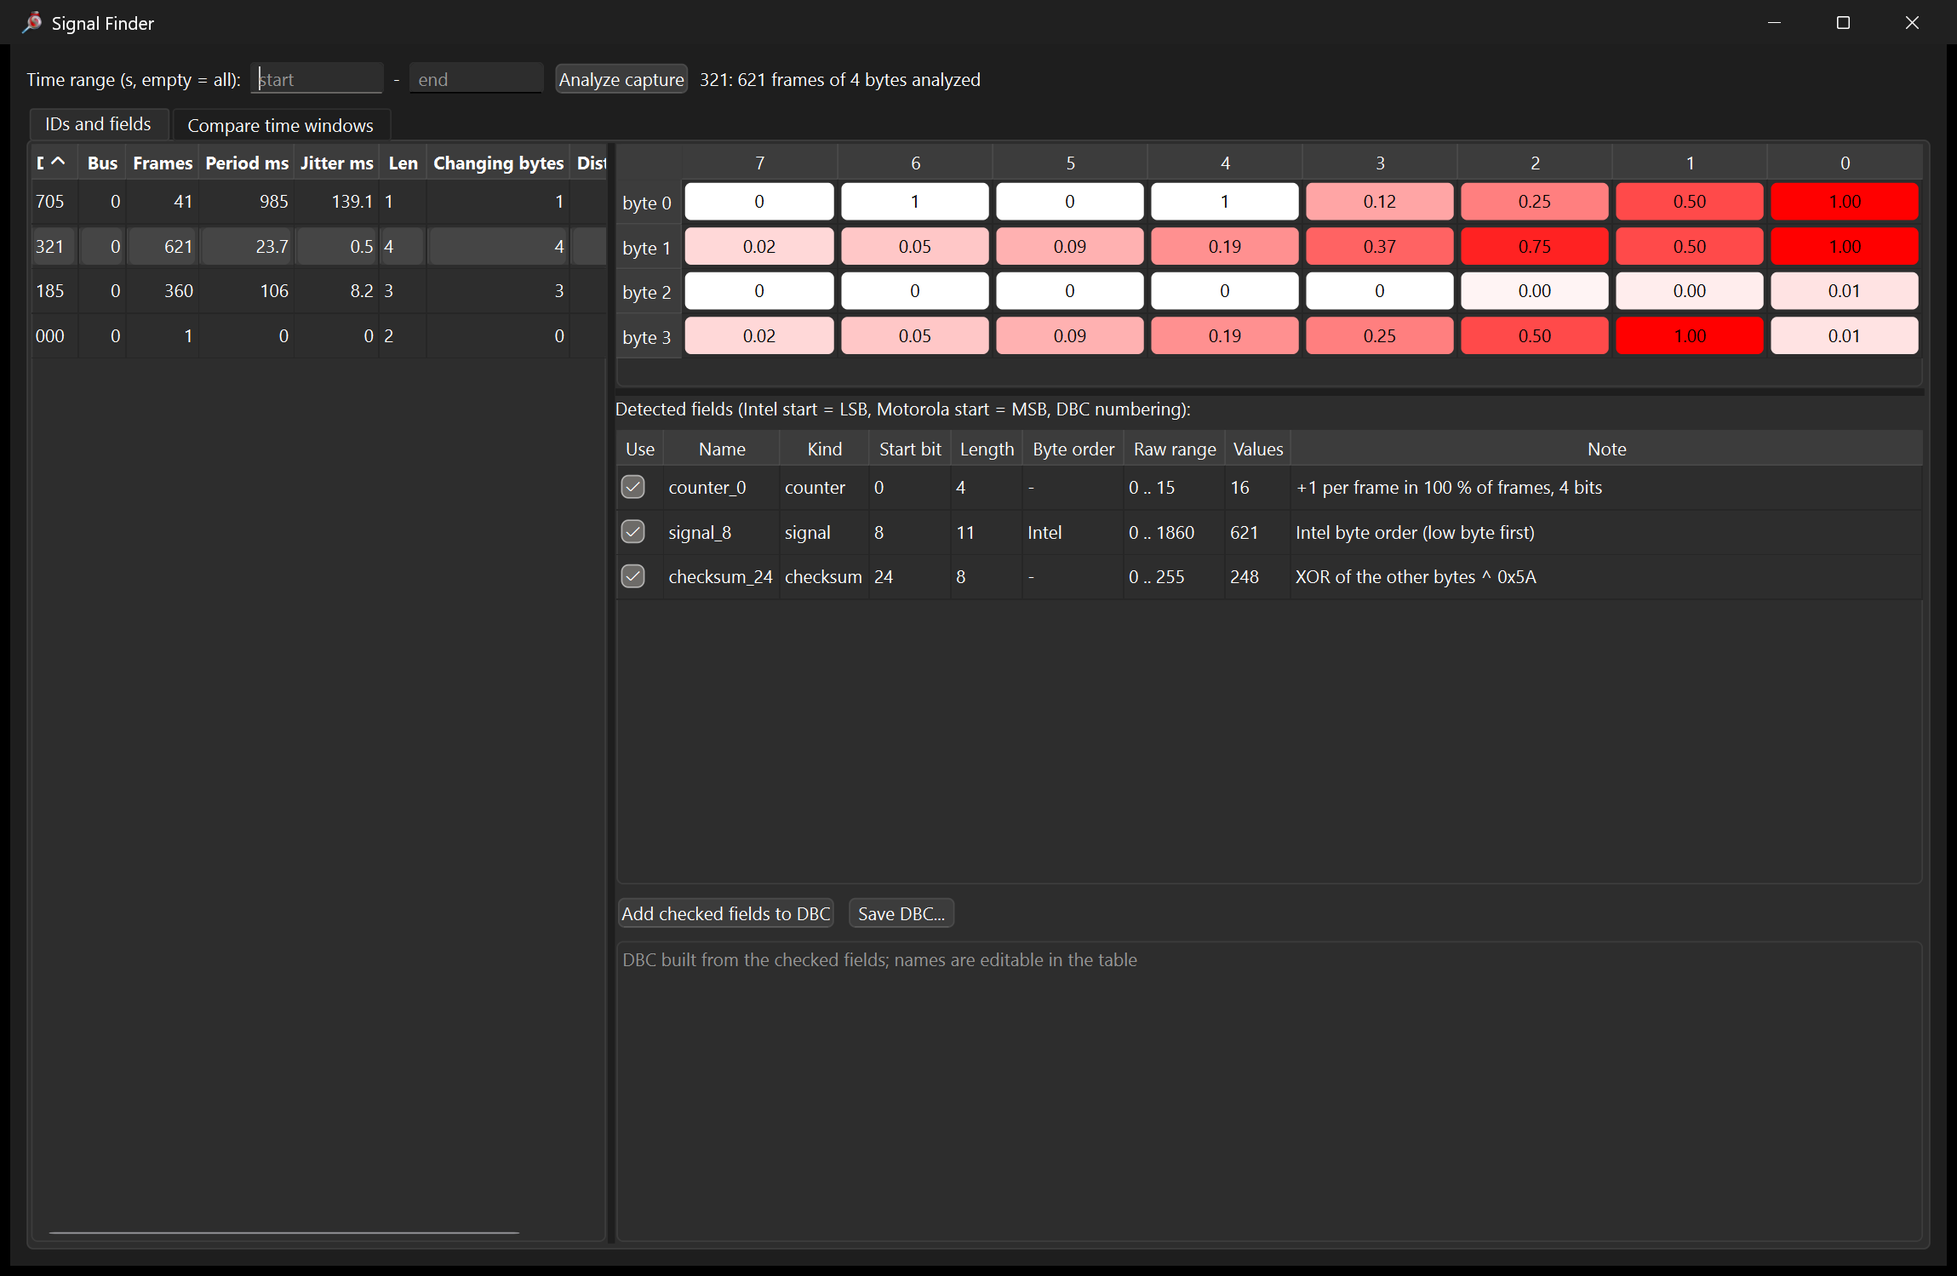
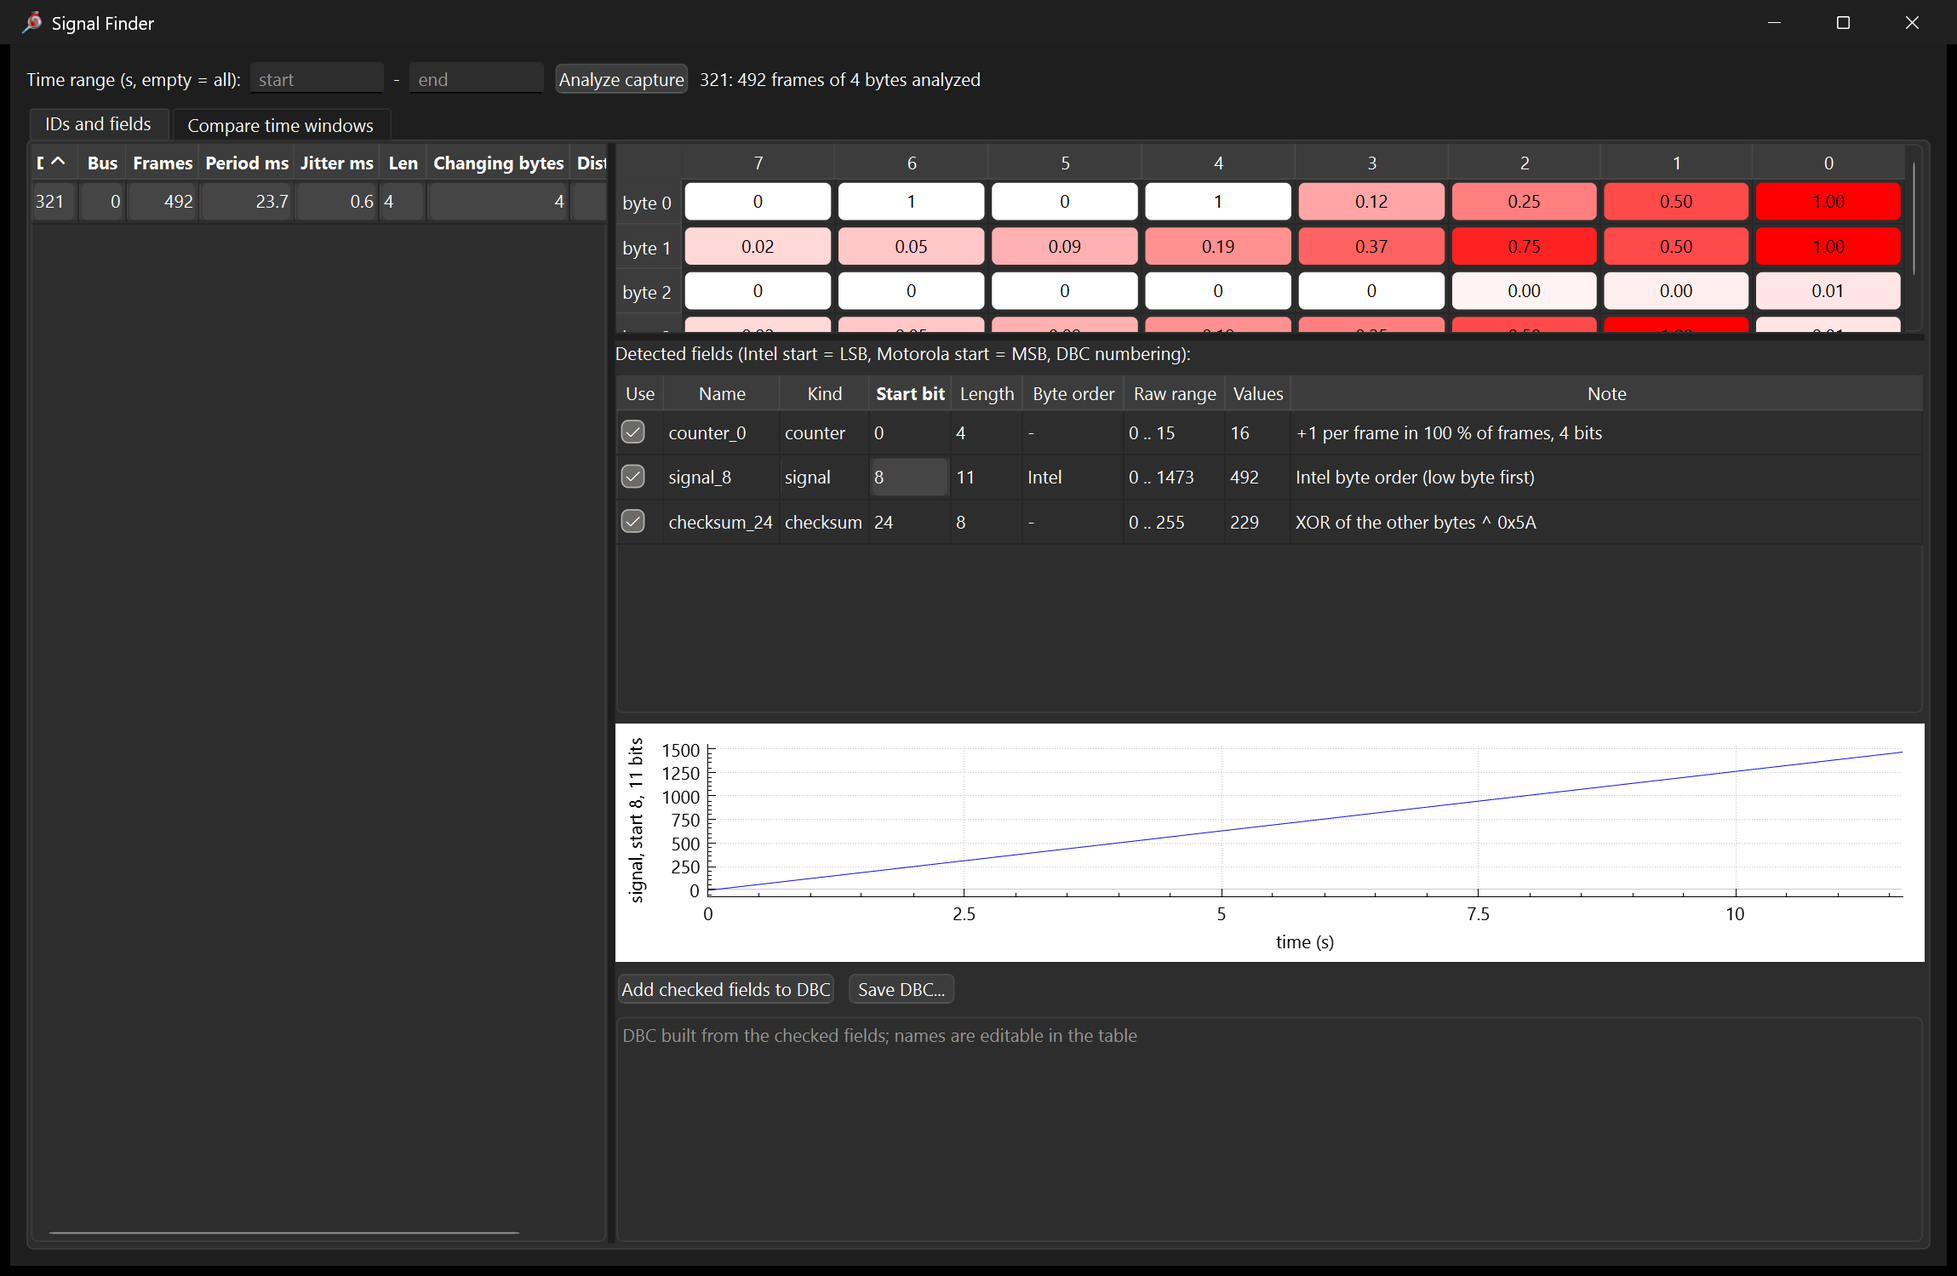
Signal Finder: value plot and DBC load into SavvyCAN; WSL2 note
- Signal Finder plots the selected field over time (QCustomPlot,
  steps for flags), following the table selection
- Save DBC in Signal Finder and AI Assistant offers to load the file into
  SavvyCAN's DBC handler (re/dbcload.h), replacing an earlier load of the
  same path; verified on Windows: fields found on 0x321 saved, loaded,
  and Interpret Frames decoded counter 11, signal 417 (0x01A1, low byte
  first) and checksum 161 for frame 5B A1 01 A1
- README: WSL2 / usbipd section with the note that an adapter handed
  back to Windows may need a replug (PLAN item closed)
- upstream commit amended to 2c1a049, patch regenerated, identical to a
  fresh patched checkout

Changed region(s): [[0.3088, 0.5524, 0.9883, 0.8286], [0.3088, 0.1227, 0.9883, 0.4603], [0.3706, 0.1841, 0.4015, 0.2148]]

diff --git a/gui/savvycan/re/signalfinderwindow.cpp b/gui/savvycan/re/signalfinderwindow.cpp
@@ -20,6 +20,8 @@
 #include <QVBoxLayout>
 #include <cmath>
 
+#include "dbcload.h"
+#include "qcustomplot.h"
 #include "recapture.h"
 
 namespace {
@@ -95,6 +97,13 @@ SignalFinderWindow::SignalFinderWindow(const QVector<GuiFrame> *frameList, QWidg
     fl->setContentsMargins(0, 0, 0, 0);
     fl->addWidget(new QLabel(tr("Detected fields (Intel start = LSB, Motorola start = MSB, DBC numbering):"), this));
     fl->addWidget(fieldTable, 3);
+    plot = new QCustomPlot(this);
+    plot->setMinimumHeight(160);
+    plot->xAxis->setLabel(tr("time (s)"));
+    plot->yAxis->setLabel(tr("raw value"));
+    plot->setInteractions(QCP::iRangeDrag | QCP::iRangeZoom);
+    plot->addGraph();
+    fl->addWidget(plot, 2);
     fl->addLayout(dbcRow);
     fl->addWidget(dbcView, 2);
 
@@ -149,6 +158,7 @@ SignalFinderWindow::SignalFinderWindow(const QVector<GuiFrame> *frameList, QWidg
 
     connect(refreshBtn, &QPushButton::clicked, this, &SignalFinderWindow::refresh);
     connect(idTable, &QTableWidget::itemSelectionChanged, this, &SignalFinderWindow::idSelected);
+    connect(fieldTable, &QTableWidget::itemSelectionChanged, this, &SignalFinderWindow::fieldSelected);
     connect(addBtn, &QPushButton::clicked, this, &SignalFinderWindow::addToDbc);
     connect(saveBtn, &QPushButton::clicked, this, &SignalFinderWindow::saveDbc);
     connect(cmpBtn, &QPushButton::clicked, this, &SignalFinderWindow::compare);
@@ -261,6 +271,33 @@ void SignalFinderWindow::idSelected()
     summary->setText(tr("%1: %2 frames of %3 bytes analyzed").arg(keyStr(current.key)).arg(current.frames).arg(current.length));
 }
 
+void SignalFinderWindow::fieldSelected()
+{
+    QList<QTableWidgetItem *> sel = fieldTable->selectedItems();
+    int r = sel.isEmpty() ? fieldTable->currentRow() : sel.first()->row();
+    if (r < 0 || r >= int(current.fields.size()))
+        return;
+    const canre::Field &f = current.fields[size_t(r)];
+    double t0, t1;
+    timeRange(t0, t1);
+    QVector<double> x, y;
+    for (size_t i : cap.indices(current.key, t0, t1))
+    {
+        bool ok;
+        uint64_t v = canre::extractBits(cap.data(i), cap.frame(i).len, f.startBit, f.length, f.bigEndian, &ok);
+        if (!ok) continue;
+        x.append(cap.seconds(i));
+        y.append(double(v));
+    }
+    plot->graph(0)->setData(x, y);
+    plot->graph(0)->setLineStyle(f.length == 1 ? QCPGraph::lsStepLeft : QCPGraph::lsLine);
+    plot->rescaleAxes();
+    plot->yAxis->scaleRange(1.1, plot->yAxis->range().center());
+    plot->yAxis->setLabel(tr("%1, start %2, %3 bits%4").arg(canre::kindName(f.kind)).arg(f.startBit).arg(f.length)
+                              .arg(f.bigEndian ? tr(", Motorola") : QString()));
+    plot->replot();
+}
+
 void SignalFinderWindow::addToDbc()
 {
     if (current.frames == 0) return;
@@ -302,18 +339,8 @@ void SignalFinderWindow::saveDbc()
         QMessageBox::information(this, tr("Signal Finder"), tr("Add fields to the DBC first."));
         return;
     }
-    QSettings settings;
-    QString path = QFileDialog::getSaveFileName(this, tr("Save DBC"), settings.value("SignalFinder/dbcPath").toString(), tr("DBC (*.dbc)"));
-    if (path.isEmpty()) return;
-    QFile f(path);
-    if (!f.open(QIODevice::WriteOnly | QIODevice::Truncate))
-    {
-        QMessageBox::warning(this, tr("Signal Finder"), tr("Cannot write %1").arg(path));
-        return;
-    }
-    f.write(QByteArray::fromStdString(canre::toDbc(dbc)));
-    settings.setValue("SignalFinder/dbcPath", path);
-    summary->setText(tr("saved %1; load it with File > DBC File Manager").arg(path));
+    QString status = saveAndLoadDbc(this, QByteArray::fromStdString(canre::toDbc(dbc)));
+    if (!status.isEmpty()) summary->setText(status);
 }
 
 void SignalFinderWindow::compare()

diff --git a/gui/savvycan/re/dbcload.h b/gui/savvycan/re/dbcload.h
@@ -1,0 +1,55 @@
+// SPDX-License-Identifier: MIT
+// Copyright (c) 2026 CANLAB s.r.o.
+#ifndef DBCLOAD_H
+#define DBCLOAD_H
+
+/* Saves DBC text and, if the user wants, loads it into SavvyCAN's DBC
+ * handler so the frame list decodes the signals (Interpret Frames). A file
+ * loaded earlier from the same path is replaced, not loaded twice. */
+
+#include <QFile>
+#include <QFileDialog>
+#include <QFileInfo>
+#include <QMessageBox>
+#include <QSettings>
+#include <QWidget>
+
+#include "dbc/dbchandler.h"
+
+/* Returns a status line for the window, empty if the user cancelled. */
+inline QString saveAndLoadDbc(QWidget *parent, const QByteArray &dbcText)
+{
+    QSettings settings;
+    QString path = QFileDialog::getSaveFileName(parent, QObject::tr("Save DBC"), settings.value("SignalFinder/dbcPath").toString(),
+                                                QObject::tr("DBC (*.dbc)"));
+    if (path.isEmpty())
+        return QString();
+    QFile f(path);
+    if (!f.open(QIODevice::WriteOnly | QIODevice::Truncate))
+    {
+        QMessageBox::warning(parent, QObject::tr("Save DBC"), QObject::tr("Cannot write %1").arg(path));
+        return QObject::tr("could not write %1").arg(path);
+    }
+    f.write(dbcText);
+    f.close();
+    settings.setValue("SignalFinder/dbcPath", path);
+
+    if (QMessageBox::question(parent, QObject::tr("Save DBC"),
+                              QObject::tr("Load it into SavvyCAN now, so the frame list decodes the signals (Interpret Frames)?"),
+                              QMessageBox::Yes | QMessageBox::No, QMessageBox::Yes) != QMessageBox::Yes)
+        return QObject::tr("saved %1").arg(path);
+
+    DBCHandler *h = DBCHandler::getReference();
+    QString target = QFileInfo(path).absoluteFilePath();
+    for (int i = h->getFileCount() - 1; i >= 0; i--)
+    {
+        DBCFile *old = h->getFileByIdx(i);
+        if (old && QFileInfo(old->getFullFilename()).absoluteFilePath() == target)
+            h->removeDBCFile(i);
+    }
+    if (!h->loadDBCFile(path))
+        return QObject::tr("saved %1, but SavvyCAN could not load it").arg(path);
+    return QObject::tr("saved and loaded %1; tick Interpret Frames in the main window to see the signals").arg(path);
+}
+
+#endif // DBCLOAD_H

diff --git a/gui/savvycan/apply.py b/gui/savvycan/apply.py
@@ -40,7 +40,7 @@ for f in ("busstatswindow.h", "busstatswindow.cpp", "canopenwindow.h", "canopenw
           "savvycompat.h", "canidcalc.h", "canopen_eds.h", "cancalcwindow.h", "cancalcwindow.cpp",
           "responsemeterwindow.h", "responsemeterwindow.cpp", "datapanelwindow.h", "datapanelwindow.cpp",
           "canre.h", "aitools.h", "recapture.h", "signalfinderwindow.h", "signalfinderwindow.cpp",
-          "aiassistantwindow.h", "aiassistantwindow.cpp"):
+          "aiassistantwindow.h", "aiassistantwindow.cpp", "dbcload.h"):
     shutil.copy(os.path.join(R, "gui", "savvycan", "re", f), os.path.join(S, "re", f))
 for f in ("pp2canlog.h", "pp2canlog.cpp", "pp2canlogfmt.h", "logprinter.h", "logprinter.cpp", "logprintlayout.h"):
     shutil.copy(os.path.join(R, "gui", "savvycan", f), os.path.join(S, f))
@@ -94,6 +94,10 @@ if os.path.exists(os.path.join(S, "CMakeLists.txt")):
           "    re/canre.h re/aitools.h re/recapture.h\n"
           "    re/signalfinderwindow.cpp re/signalfinderwindow.h\n"
           "    re/aiassistantwindow.cpp re/aiassistantwindow.h\n")
+    patch("CMakeLists.txt",
+          "    re/aiassistantwindow.cpp re/aiassistantwindow.h\n",
+          "    re/aiassistantwindow.cpp re/aiassistantwindow.h\n"
+          "    re/dbcload.h\n")
 
 patch("SavvyCAN.pro",
       "    re/temporalgraphwindow.cpp" + BS,
@@ -123,6 +127,9 @@ patch("SavvyCAN.pro",
       "    re/canopen_eds.h" + BS,
       "    re/canopen_eds.h" + BS + "    re/canre.h" + BS + "    re/aitools.h" + BS + "    re/recapture.h" + BS
       + "    re/signalfinderwindow.h" + BS + "    re/aiassistantwindow.h" + BS)
+patch("SavvyCAN.pro",
+      "    re/aiassistantwindow.h" + BS,
+      "    re/aiassistantwindow.h" + BS + "    re/dbcload.h" + BS)
 
 patch("SavvyCAN.pro",
       "    framefileio.cpp" + BS,

diff --git a/gui/savvycan/re/signalfinderwindow.h b/gui/savvycan/re/signalfinderwindow.h
@@ -7,8 +7,10 @@
  * RE Tools > Signal Finder: automatic analysis of the captured frames
  * (re/canre.h). Per ID: timing, a bit flip heatmap, and the fields it
  * found (rolling counters, checksums, constants, flags, signal candidates
- * with byte order); checked fields go into a DBC file. A second tab
- * compares two time windows ("what changed when I pressed the button").
+ * with byte order) with a plot of the selected one over time; checked
+ * fields go into a DBC file, which can be loaded into SavvyCAN right
+ * away. A second tab compares two time windows ("what changed when I
+ * pressed the button").
  */
 
 #include <QVector>
@@ -18,6 +20,7 @@
 #include "canre.h"
 #include "savvycompat.h"
 
+class QCustomPlot;
 class QDoubleSpinBox;
 class QLabel;
 class QLineEdit;
@@ -34,6 +37,7 @@ public:
 private slots:
     void refresh();
     void idSelected();
+    void fieldSelected();
     void addToDbc();
     void saveDbc();
     void compare();
@@ -54,6 +58,7 @@ private:
     QTableWidget   *heatmap;
     QTableWidget   *fieldTable;
     QPlainTextEdit *dbcView;
+    QCustomPlot    *plot;
     QDoubleSpinBox *aStart, *aEnd, *bStart, *bEnd;
     QPlainTextEdit *diffView;
 };

diff --git a/gui/savvycan/re/aiassistantwindow.cpp b/gui/savvycan/re/aiassistantwindow.cpp
@@ -34,6 +34,7 @@
 #include <functional>
 
 #include "connections/canconmanager.h"
+#include "dbcload.h"
 #include "recapture.h"
 
 namespace {
@@ -709,16 +710,6 @@ void AiAssistantWindow::saveDbc()
         QMessageBox::information(this, tr("AI Assistant"), tr("No DBC proposal yet."));
         return;
     }
-    QSettings settings;
-    QString path = QFileDialog::getSaveFileName(this, tr("Save DBC"), settings.value("SignalFinder/dbcPath").toString(), tr("DBC (*.dbc)"));
-    if (path.isEmpty()) return;
-    QFile f(path);
-    if (!f.open(QIODevice::WriteOnly | QIODevice::Truncate))
-    {
-        QMessageBox::warning(this, tr("AI Assistant"), tr("Cannot write %1").arg(path));
-        return;
-    }
-    f.write(QByteArray::fromStdString(canre::toDbc(proposals)));
-    settings.setValue("SignalFinder/dbcPath", path);
-    statusLabel->setText(tr("saved %1; load it with File > DBC File Manager").arg(path));
+    QString status = saveAndLoadDbc(this, QByteArray::fromStdString(canre::toDbc(proposals)));
+    if (!status.isEmpty()) statusLabel->setText(status);
 }

diff --git a/doc/PLAN.md b/doc/PLAN.md
@@ -120,10 +120,10 @@ Decision 2026-10-14: build on SavvyCAN (MIT, Qt). First milestone done the same 
 - [x] Fixed a crash found on Windows: `QSerialPort::open()` emits its error signal synchronously, the error slot deleted the port, and the caller then dereferenced it. The error signal is now connected only after a successful open. Removed an unused timer that triggered a cross-thread parent warning.
 - [x] Windows end-to-end (2026-10-14): SavvyCAN on Windows 11 on COM7, the other adapter on the Linux kernel driver in WSL2. Receive 14/14 on all three buses including an extended id and a 12-byte FD frame with BRS, hardware timestamps 103 ms apart for 100 ms sends; transmit from the quick-send grid 13/13 at 200 ms (`doc/img/savvycan-triple-windows.png`). Note: SavvyCAN's grid parses unprefixed numbers as decimal, so ids and data need `0x`.
 - [x] "NO-CARRIER for a second after attach" is not a driver issue: carrier is on for all three ports immediately (sampled every 100 ms), only `operstate` lags by about 0.9 s on a fresh attach. That is the kernel's link-watch rate limiting, which batches non-urgent link events for every network device. Scripts should not wait on `operstate` right after `ldattach`; sending works immediately.
-- [ ] usbipd round trips leave an adapter unusable on Windows (open times out) until it is physically replugged; a `pnputil /restart-device` does not help. Worth a note for users who switch adapters between WSL2 and Windows.
+- [x] usbipd round trips leave an adapter unusable on Windows (open times out) until it is physically replugged; a `pnputil /restart-device` does not help. Noted in README (WSL2 section) and gui/savvycan/README.md.
 - [x] Error frames in SavvyCAN's frame list: on every bus state change (active, warning at 96, passive at 128, bus off) the connection queues a SocketCAN-layout error frame (controller state in byte 1, TEC/REC in bytes 6/7, `ControllerError` / `BusOffError`). Verified on Windows with a bitrate mismatch on CAN1: passive with REC 128, then active again (`doc/img/savvycan-triple-errorframes.png`).
 - [ ] Marker input and the remaining status fields once the firmware source clarifies them.
-- [ ] Upstream pull request to collin80/SavvyCAN: prepared locally (branch `usb2can-triple`, commits `5076eab` connection, `a85db3c` Bus Statistics window and `7997283` CANopen window, `ec64818` PP2CAN tools, `8daedb1` CANopen PDO decoding, `f67667d` Print Log, `3a41e68` CAN FD zero padding, `a5f04bf` raw timing for non-table CAN3 pairs, `5f3585b` Signal Finder and AI Assistant in the WSL checkout, text in `gui/savvycan/UPSTREAM_PR.md`). License resolved 2026-10-14: the codec, the SavvyCAN connection, tools and tests are MIT; only `driver/triple.c` is GPL-2.0. Opening the PR publishes under the maintainer's GitHub account and is left to them.
+- [ ] Upstream pull request to collin80/SavvyCAN: prepared locally (branch `usb2can-triple`, commits `5076eab` connection, `a85db3c` Bus Statistics window and `7997283` CANopen window, `ec64818` PP2CAN tools, `8daedb1` CANopen PDO decoding, `f67667d` Print Log, `3a41e68` CAN FD zero padding, `a5f04bf` raw timing for non-table CAN3 pairs, `2c1a049` Signal Finder and AI Assistant in the WSL checkout, text in `gui/savvycan/UPSTREAM_PR.md`). License resolved 2026-10-14: the codec, the SavvyCAN connection, tools and tests are MIT; only `driver/triple.c` is GPL-2.0. Opening the PR publishes under the maintainer's GitHub account and is left to them.
 - [x] PP2CAN feature gap review: `doc/pp2can-gap.md` maps every PP2CAN feature to SavvyCAN. Covered: logs, filters, search, continuous logging, periodic sender, playback, gateway (CAN Bridge), graphs, ID / timing analysis, DBC signals, scripting. Missing, ranked: bus statistics window (load %, TEC/REC over time), CANopen basics (NMT, heartbeat, SDO, PDO from EDS), response meter, slider-based data/bit sender, CAN calculator. Blocked on firmware source: HW-timed sync, markers, overflow counter, bus-off encoding.
 - [x] Bus statistics window (RE Tools > Bus Statistics, `gui/savvycan/re/busstatswindow.*`): per bus bitrate, frames/s, load % from frame timing at the nominal and data bitrates, peak, error frames, last state with TEC/REC, load graph over 120 s. Works with any SavvyCAN connection. Verified on Windows: 897 frames/s at 250k read 39.8 % (= 897 x 111 bits), 472 frames/s at 500k 10.5 %, 50 FD frames of 64 bytes with BRS at 125k/6.7M 1.6 %; state and counters follow error frames (`doc/img/savvycan-bus-statistics.png`).
 - [x] Fixed a timestamp bug found in that test (driver and SavvyCAN): frames from different ports can arrive slightly out of timestamp order, and any backward step was taken as a 32-bit counter wrap, adding 4295 s. The extension now lives in the shared codec (`triple_ts_extend`): up to 1 s backwards is reordering, a wrap needs a larger backward jump; unit tested in `tests/codec`.

diff --git a/gui/savvycan/README.md b/gui/savvycan/README.md
@@ -71,7 +71,9 @@ To try it without a CANopen device, run the simulated node from
   constant), constant bytes, flags, and signal candidates. Signals are
   segmented by bit flip rates (inside a signal the flip rate rises from MSB
   to LSB) in both byte orders, and the byte order that gives the longer
-  field wins. Checked fields go into a DBC file. The second tab compares
+  field wins. The selected field is plotted over time. Checked fields go
+  into a DBC file, and saving offers to load it into SavvyCAN right away so
+  Interpret Frames decodes them in the frame list. The second tab compares
   two time windows ("what changed when I pressed the button"): IDs that
   appear or vanish, rate changes, and the bits whose level or toggling
   differs most.
@@ -79,7 +81,7 @@ To try it without a CANopen device, run the simulated node from
   Anthropic API key. It works on the capture with the same analysis as
   tools: overview, ID list, per-ID analysis, raw frames, decoded signal
   values over time, window comparison. It proposes DBC signals in a side
-  panel that you save yourself. Transmitting frames is off by default; when
+  panel that you save (and load into SavvyCAN) yourself. Transmitting frames is off by default; when
   you allow it, every frame needs your confirmation and can be limited to
   an ID allowlist.
 

diff --git a/README.md b/README.md
@@ -25,6 +25,20 @@ the protocol facts and the test record. Firmware 1.41.
 Verified builds: Ubuntu 22.04 (5.15), Ubuntu 24.04 (6.8), Fedora 44 (7.2),
 WSL2 (6.6). The container matrix is in `ci/kbuild/`.
 
+On Windows with WSL2, hand an adapter to Linux with
+[usbipd-win](https://github.com/dorssel/usbipd-win) (the module has to be
+built against the WSL2 kernel source):
+
+```sh
+usbipd list                          # Windows, admin: find the busid of 04d8:f0d7
+usbipd bind --busid 1-2              # once per adapter
+usbipd attach --wsl --busid 1-2      # appears in WSL2 as /dev/ttyACMx
+```
+
+An adapter handed back to Windows (`usbipd detach`) may stay unusable
+there, opening its COM port times out, until it is physically replugged;
+`pnputil /restart-device` does not help.
+
 ## Build and load
 
 ```sh

diff --git a/gui/savvycan/UPSTREAM_PR.md b/gui/savvycan/UPSTREAM_PR.md
@@ -14,7 +14,7 @@ has nine commits:
 | `f67667d` | Add Print Log to the File menu |
 | `3a41e68` | Triple: zero padding for CAN FD lengths between DLC steps |
 | `a5f04bf` | Triple: CAN3 bitrate pairs outside the firmware table as raw timing |
-| `5f3585b` | Add Signal Finder and AI Assistant windows (reverse engineering; can be left out or split) |
+| `2c1a049` | Add Signal Finder and AI Assistant windows (reverse engineering; can be left out or split) |
 
 They can go in one PR or as separate ones; only the first commit is
 specific to the Triple, the tool windows and the PP2CAN log format work
